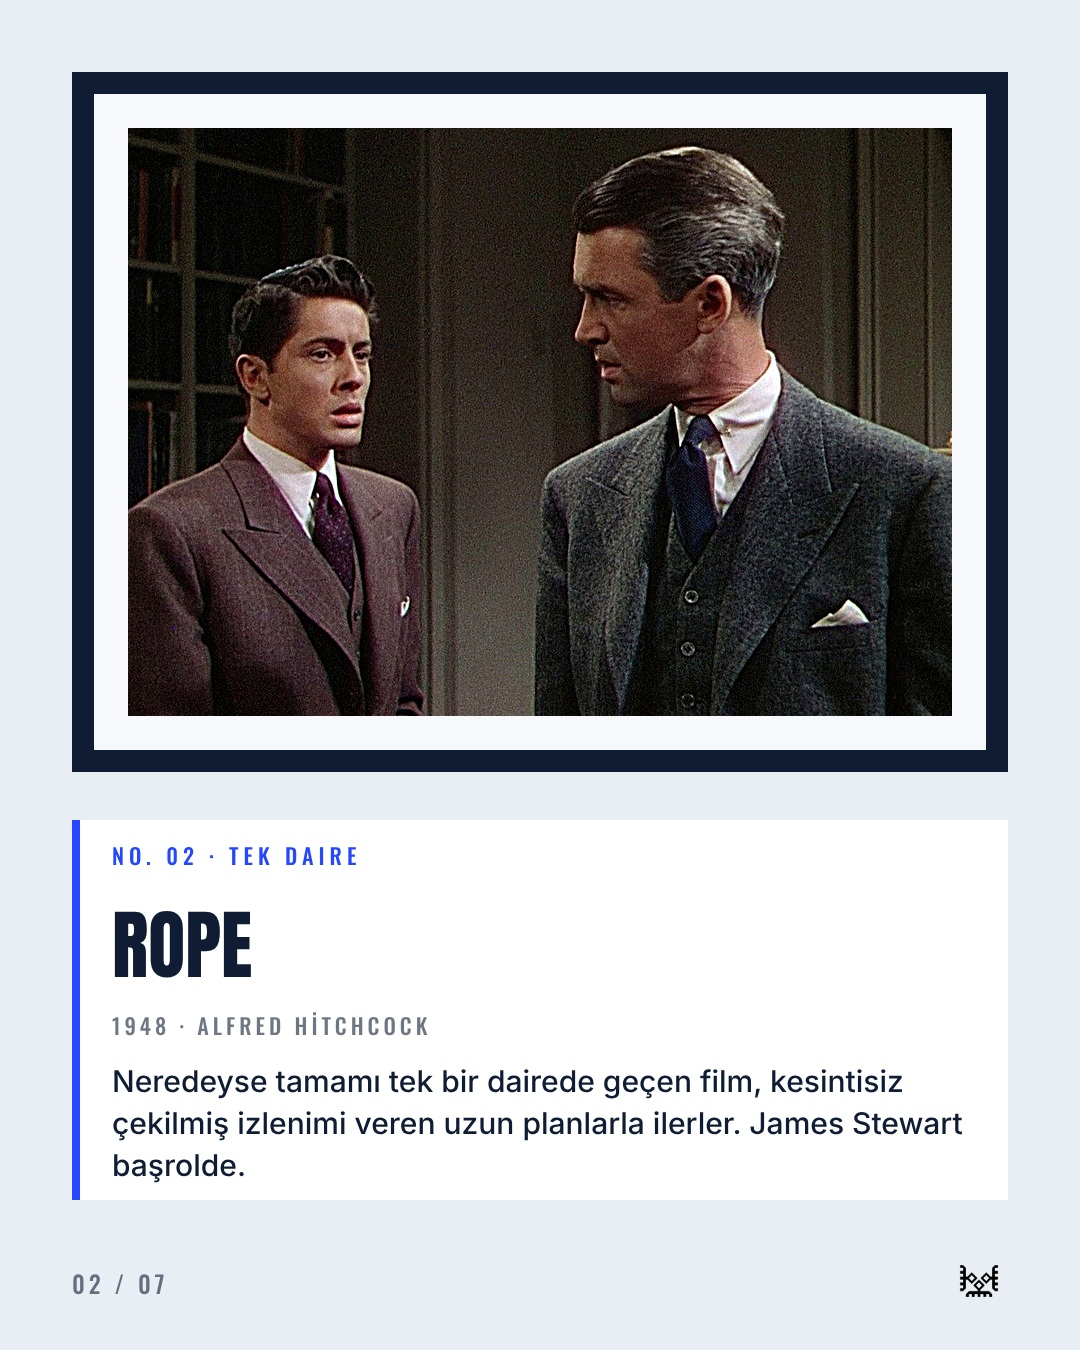
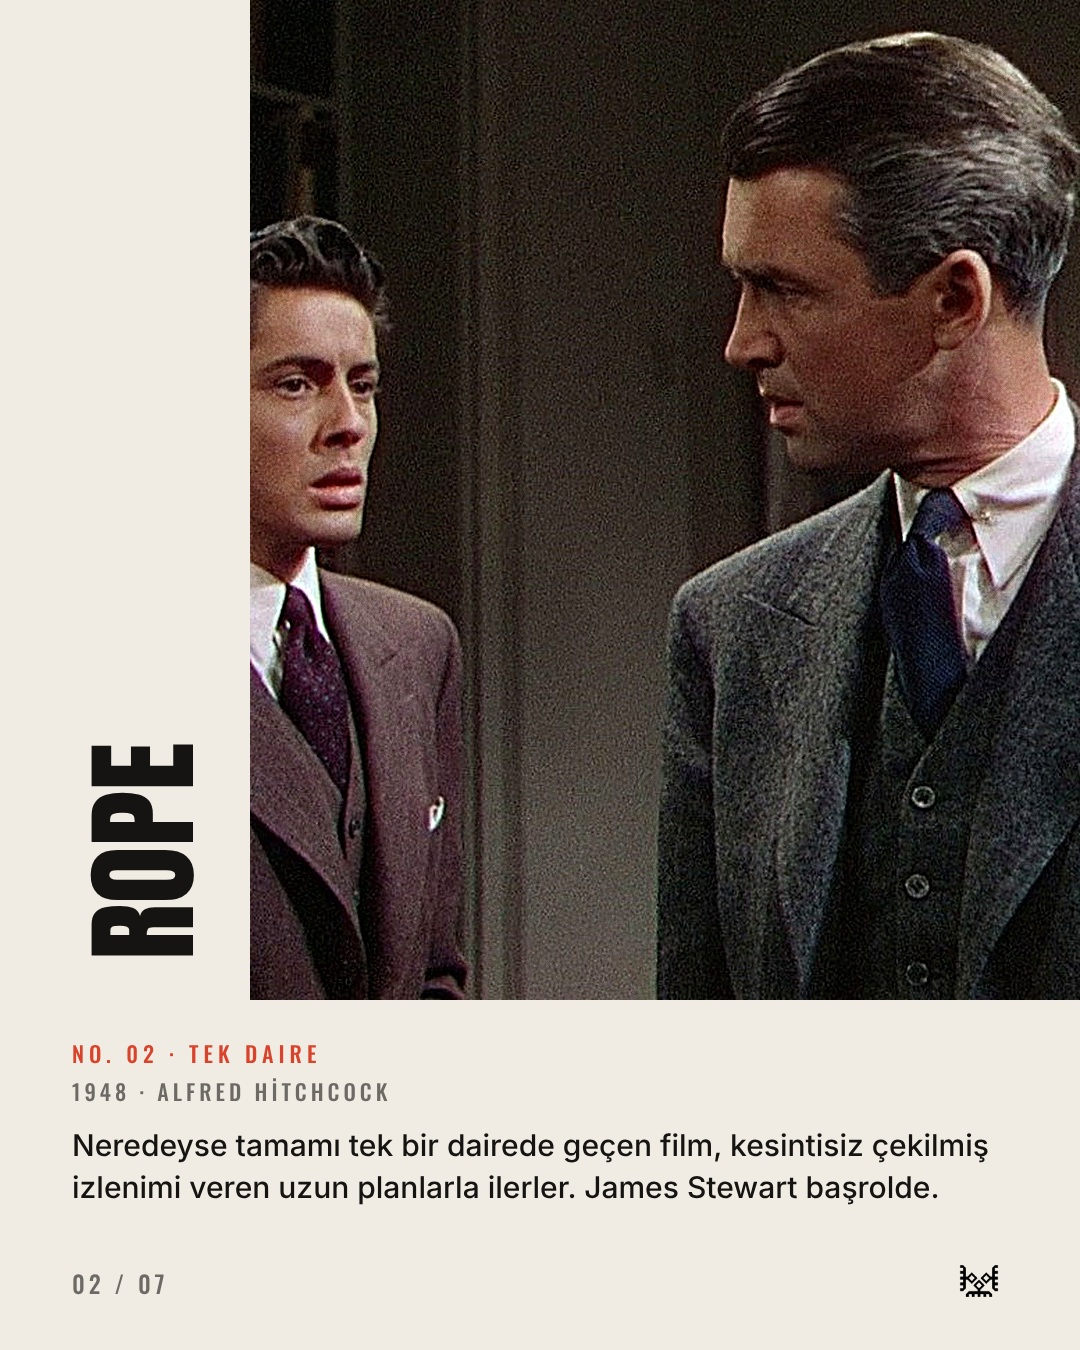
Gönderi tasarımları yenilendi; Türk komedileri yerine 2026'nın en yüksek puanlı 5 filmi
Claude-Session: https://claude.ai/code/session_013RjhQCyUYfSSutarfaCBa7

diff --git a/tools/week2/p06.py b/tools/week2/p06.py
@@ -1,69 +1,74 @@
 from pro import *
 
-ID = "2026-11-02_liste_turk-komedileri"
-RED, TEL, GLD = "#a8321f", "#1f5c57", "#e0a526"
-TH = theme("#f1e3c4", "#2a1a10", "#a8321f", on_acc="#f1e3c4", head="abril", upper=False, acc_logo="white")
+ID = "2026-11-02_liste_2026-en-yuksek-puanli-5-film"
+TEAL, CRM, INK = "#0e7c7b", "#f2efe6", "#141a1a"
+TH = theme(CRM, INK, TEAL, on_acc="#fff", head="anton")
 
-CAPTION = """Yıllar geçse de her izlendiğinde yeniden güldüren 5 Türk komedisi. Kimi okul sıralarında, kimi köy meydanında, kimi bir turşu dükkânında geçiyor ama hepsinin repliği hâlâ dilimizde.
+CAPTION = """2026'nın şimdiye kadar en yüksek puan alan 5 filmi. Eylül 2025'ten bu yana vizyona giren ve en az 1.500 oy almış filmler arasında TMDB izleyici puanına göre en tepedekiler hepsi bu yılın yapımı çıktı.
 
-Hababam Sınıfı (1975) Özel Çamlıca Lisesi'nin haylaz sınıfını, Tosun Paşa (1976) iki aile arasında Tosun Paşa kılığına sokulan uşak Şaban'ı, Zübük (1980) Aziz Nesin'in fırsatçı karakterini, Çöpçüler Kralı (1977) mahallenin çöpçüsü Apti'yi, Neşeli Günler (1978) ise turşu yüzünden ayrılan bir aileyi anlatıyor.
+Yerime Geç 8,8 ile zirvede. Onu 8,6 ile Kurtuluş Projesi ve Michael, 8,5 ile Örümcek-Adam: Yepyeni Bir Gün, 8,3 ile Oyuncak Hikayesi 5 izliyor. Puanlar zamanla değişebilir.
 
-Sen hangisinin repliklerini ezbere biliyorsun?
+Sen hangisini izledin, puanı hak ediyor mu?
 
 Yarın 18:00'de: Çocukken izlediğin, büyüyünce başka vuran 5 animasyon."""
 
-
 FILMS = [
-    ("Hababam Sınıfı", "1975 · Ertem Eğilmez", "Münir Özkul, Tarık Akan, Kemal Sunal, Halit Akçatepe, Adile Naşit",
-     "Özel Çamlıca Lisesi'nin haylaz öğrencilerle dolu ünlü sınıfı. Kopya, kaçamak ve unutulmaz karakterler.", S("hababam", 1), None, "okul sıraları", RED),
-    ("Tosun Paşa", "1976 · Kartal Tibet", "Kemal Sunal, Şener Şen, Müjde Ar, Adile Naşit",
-     "İki aile arasındaki Yeşil Vadi kavgasında uşak Şaban, Tosun Paşa kılığına sokulur. İşler karışır.", S("tosunpasa", 3), S("tosunpasa", 2), "fesli kahraman", TEL),
-    ("Zübük", "1980 · Kartal Tibet", "Kemal Sunal, Nevra Serezli, Metin Serezli",
-     "Aziz Nesin'in aynı adlı kitabından uyarlandı: her ortamda yolunu bulan fırsatçı Zübük'ün hikâyesi.", S("zubuk", 1), S("zubuk", 2), "fırsatçı", GLD),
-    ("Çöpçüler Kralı", "1977 · Zeki Ökten", "Kemal Sunal, Şener Şen, Ayşen Gruda",
-     "Mahallenin çöpçüsü Apti ile esnafa baskı yapan zabıta memurunun hikâyesi.", S("copculer", 3), S("copculer", 1), "mahalle", RED),
-    ("Neşeli Günler", "1978 · Orhan Aksoy", "Münir Özkul, Adile Naşit, Şener Şen",
-     "Turşu yüzünden ayrılan anne babanın çocukları üçer üçer paylaşılır; yıllar sonra tesadüfen karşılaşırlar.", S("neseligunler", 2), S("neseligunler", 1), "turşu kavgası", TEL),
+    ("YERİME GEÇ", "8.8", "1 Mayıs 2026 · Nathan Greno", "Michael B. Jordan, Juno Temple, Tracy Morgan",
+     "Ormanda yaşayan küçük bir canlıyla görkemli bir kuşun bedenleri aniden yer değiştirir; hayatta kalmak için birlik olmaları gerekir.", S("swapped", 3), S("swapped", 1), "Swapped"),
+    ("KURTULUŞ PROJESİ", "8.6", "20 Mart 2026 · Phil Lord, Christopher Miller", "Ryan Gosling, Sandra Hüller, James Ortiz",
+     "Fen bilgisi öğretmeni Ryland Grace, ışık yılları uzakta bir uzay gemisinde hafızasını kaybetmiş halde uyanır ve Güneş'in sönmesinin sırrını çözmeye çalışır.", S("hailmary", 4), S("hailmary", 3), "Project Hail Mary"),
+    ("MICHAEL", "8.6", "24 Nisan 2026 · Antoine Fuqua", "Jaafar Jackson, Colman Domingo, Nia Long",
+     "Michael Jackson'ı gerçek hayattaki yeğeni Jaafar Jackson canlandırıyor; film en ikonik performansları da içeriyor.", S("michael", 4), S("michael", 1), "Biyografi"),
+    ("ÖRÜMCEK-ADAM: YEPYENİ BİR GÜN", "8.5", "31 Temmuz 2026 · Destin Daniel Cretton", "Tom Holland, Sadie Sink, Zendaya",
+     "Artık kimsenin hatırlamadığı Peter Parker, şehre yönelen yeni bir tehdidi durdurmaya çalışır.", S("spiderman", 2), S("spiderman", 1), "Spider-Man: Brand New Day"),
+    ("OYUNCAK HİKAYESİ 5", "8.3", "19 Haziran 2026 · Andrew Stanton", "Tom Hanks, Tim Allen, Joan Cusack",
+     "Bonnie'nin bir tablete takıntılı hale gelmesiyle Buzz, Woody ve Jessie için işler iyice karışır.", S("toystory5", 3), S("toystory5", 1), "Toy Story 5"),
 ]
 
 
+def cover():
+    els = [
+        *kicker(TH, "TMDB izleyici puanı", M, 70),
+        T("2026'NIN EN<br>YÜKSEK PUANLI<br>5 FİLMİ", M, 130, W - 2 * M, 400, 130, "anton", INK, nowrap=True, mn=64, lh=1.07),
+    ]
+    y = 590
+    track_x, track_w = M + 120, 560
+    for k, f in enumerate(FILMS):
+        sc = float(f[1])
+        els += [
+            img(grade(f[6], (96, 96)), M, y, 96, 96, z=2),
+            T(f[0], track_x, y - 4, W - track_x - M - 150, 44, 30, "oswald", INK, weight=500, ls=2, nowrap=True, mn=16, upper=True),
+            box(track_x, y + 60, track_w, 14, "rgba(20,26,26,.10)", z=2),
+            box(track_x, y + 60, int(track_w * sc / 10), 14, TEAL, z=3),
+            T(f[1].replace(".", ","), W - M - 150, y + 6, 150, 70, 64, "anton", TEAL, fit=False, align="right", lh=1.0, nowrap=True, bleed=True),
+        ]
+        y += 116
+    els += [T("Eylül 2025'ten bu yana vizyona girenler arasında, en az 1.500 oy.", M, 1224, W - 2 * M - 70, 30, 22, "inter", INK, weight=500, nowrap=True, mn=14, op=0.6),
+            logo("black", W - M - 58, 1252, 58, z=9)]
+    return {"bg": CRM, "els": els}
 
 
-
-HOLE = "repeating-linear-gradient(90deg,#f1e3c4 0 22px,transparent 22px 50px)"
-
-
-def strip(x, y, w, h):
-    return [box(x, y, w, h, "#1c1713", z=2),
-            box(x + 18, y + 12, w - 36, 22, "transparent", z=3, css=f"background:{HOLE}"),
-            box(x + 18, y + h - 34, w - 36, 22, "transparent", z=3, css=f"background:{HOLE}")]
-
-
-def strip_film(i, n):
-    title, meta, cast, body, src, _, tag, _c = FILMS[i]
-    return {"bg": TH["bg"], "els": [
-        *strip(40, 48, 1000, 700),
-        img(grade(src, (924, 600), contrast=1.05, sat=0.95), 78, 98, 924, 600, z=4),
-        T(f"{i+1}", 78, 98, 90, 90, 56, "abril", "#f1e3c4", fit=False, align="center", flex="center", bleed=True, z=7, bg="#a8321f"),
-        T(title, M, 790, W - 2 * M, 100, 88, "abril", TH["ink"], nowrap=True, mn=44, lh=1.05),
-        T(meta, M, 905, W - 2 * M, 36, 26, "typewriter", TH["accent"], nowrap=True, mn=16, upper=True, ls=2),
-        T(body, M, 960, W - 2 * M, 190, 38, "inter", TH["ink"], weight=500, lh=1.38, mn=26),
-        T("Başrolde: " + cast, M, 1196, W - 2 * M, 30, 22, "oswald", TH["ink"], weight=500, ls=2, upper=True, nowrap=True, mn=14, op=0.6),
-        *footer(TH, i + 1, n),
+def score_film(i, n):
+    title, sc, meta, kadro, konu, src, _c, tag = FILMS[i]
+    ph = 700
+    ts = fit(title, 620, 92, 0.5, 40)
+    return {"bg": CRM, "els": [
+        img(grade(src, (1080, ph)), 0, 0, W, ph, z=1),
+        label(tag, M, 56),
+        box(W - M - 236, ph - 118, 236, 236, "#fff", z=4, radius=400, border=f"12px solid {TEAL}"),
+        T(sc.replace(".", ","), W - M - 236, ph - 118, 236, 236, 92, "anton", TEAL, fit=False, align="center", flex="center", lh=1.0, bleed=True, z=5),
+        T("#" + str(i + 1), M, ph + 30, 300, 40, 28, "oswald", TEAL, fit=False, weight=500, ls=6, nowrap=True),
+        T(title, M, ph + 96, 640, 110, 90, "anton", INK, nowrap=True, mn=38, lh=1.05),
+        T(meta, M, ph + 214, 700, 34, 24, "oswald", INK, weight=500, ls=3, upper=True, nowrap=True, mn=15, op=0.6),
+        rule(M, ph + 262, W - 2 * M, INK),
+        T("Oyuncular: " + kadro, M, ph + 282, W - 2 * M, 40, 28, "inter", INK, weight=500, nowrap=True, mn=18, op=0.85),
+        T(konu, M, ph + 336, W - 2 * M, 150, 34, "inter", INK, weight=500, lh=1.4, mn=24),
+        *footer(TH, i + 2, n),
     ]}
 
 
 def build():
     n = 7
-    fr = [S("tosunpasa", 2), S("copculer", 1), S("neseligunler", 1), S("zubuk", 2)]
-    els = [
-        T("Yıllar geçse de", M, 80, 800, 50, 36, "typewriter", TH["ink"], nowrap=True, ls=2),
-        T("güldüren 5<br>Türk komedisi", M, 150, W - 2 * M, 400, 150, "abril", TH["accent"], nowrap=True, mn=70, lh=1.1),
-        *strip(40, 640, 1000, 520),
-    ]
-    for k, nm in enumerate(fr):
-        els.append(img(grade(nm, (218, 420), (0.2, 0, 0.8, 1), contrast=1.05, sat=0.95), 76 + k * 232, 700, 218, 420, z=4))
-    els += [T("Kaydet, birlikte gül.", M, 1214, 600, 40, 28, "inter", TH["ink"], weight=500, nowrap=True, op=0.8), logo("black", W - M - 58, 1252, 58, z=9)]
-    slides = [{"bg": TH["bg"], "els": els}] + [strip_film(i, n) for i in range(5)]
-    slides.append(cta_slide(TH, "Hangisinin<br>repliklerini ezbere<br>biliyorsun?", "Aklında kalan repliği yorumlara yaz.", "Kaydet · Ailenle izle"))
+    slides = [cover()] + [score_film(i, n) for i in range(5)]
+    slides.append(cta_slide(TH, "SENCE PUANI<br>HAK EDİYOR MU?", "Hangisini izledin? Yorumlara kendi puanını yaz.", "Kaydet · İzleme listene ekle"))
     return {"id": ID, "caption": CAPTION, "slides": slides}

diff --git a/tools/week2/p01.py b/tools/week2/p01.py
@@ -2,7 +2,7 @@ from pro import *
 ORG, CRM, BLU, INK, YEL = "#ff5a1f", "#f4efe6", "#2447ff", "#14110f", "#ffd23f"
 
 ID = "2026-10-30_liste_basa-sardiran-5-film"
-TH = theme("#f4efe6", "#14110f", "#ff5a1f", on_acc="#fff", head="anton")
+TH = theme("#f1ece3", "#161412", "#c8321f", on_acc="#fff", head="anton")
 CAPTION = """Bitince "dur, şimdi başa saralım" dedirten 5 film. Hepsinin ortak noktası şu: ilk izlemede hikâyeyi anladığını sanıyorsun, ikinci izlemede her sahnede bir ipucu görüp "bunu nasıl kaçırdım" diyorsun.
 
 The Prestige (2006) birbirini alt etmeye çalışan iki sihirbazın takıntısını, Shutter Island (2010) bir adadaki akıl hastanesinden kaybolan hastanın izini, The Usual Suspects (1995) bir sorgu odasında anlatılan hikâyenin ne kadarının doğru olduğunu, Gone Girl (2014) evlilik yıldönümünde kaybolan bir kadının ardından başlayan şüpheyi, The Sixth Sense (1999) ise ölüleri gördüğünü söyleyen bir çocuğun hikâyesini anlatıyor.
@@ -22,36 +22,38 @@ FILMS = [
 
 
 
-SLIDE_TH = [  # bg, ink, mute-accent
-    (CRM, INK, ORG), (BLU, "#fff", YEL), (ORG, INK, CRM), (YEL, INK, BLU), (CRM, INK, BLU),
-]
+
+def sub_label(text, y):
+    size = 28
+    w = int(len(text) * size * 0.62 + 56)
+    x = (W - w) // 2
+    return [box(x, y, w, 56, "rgba(0,0,0,.68)", z=6),
+            T(text, x, y, w, 56, size, "inter", "#fff", fit=False, weight=500, align="center", flex="center", nowrap=True, bleed=True, z=7)]
 
 
-def poster_film(i, n):
-    title, meta, body, src, _, _, tag, _ = FILMS[i]
-    bg, ink, acc = SLIDE_TH[i]
-    return {"bg": bg, "els": [
-        T(f"{i+1:02d}", M, 40, 420, 300, 280, "anton", ink, fit=False, lh=1.0, bleed=True, stroke=f"3px {ink}", fill_none=True, op=0.9),
-        T(tag, W - M - 440, 72, 440, 40, 24, "oswald", ink, fit=False, weight=500, ls=5, upper=True, align="right", nowrap=True, op=0.75),
-        T(title, M, 330, W - 2 * M, 110, 104, "anton", ink, nowrap=True, mn=48, lh=1.05),
-        T(meta, M, 448, W - 2 * M, 36, 26, "oswald", ink, weight=500, ls=4, upper=True, nowrap=True, mn=18, op=0.75),
-        img(grade(src, (1080, 470), contrast=1.08, sat=1.12), 0, 510, W, 470, z=2),
-        T(body, M, 1010, W - 2 * M, 200, 42, "inter", ink, weight=500, lh=1.38, mn=28),
-        T(f"{i+1:02d} / {n:02d}", M, 1268, 260, 34, 24, "oswald", ink, fit=False, weight=500, ls=4, op=0.6),
-        logo("white" if bg in (BLU,) else "black", W - M - 58, 1252, 58, z=9),
+def lb_film(i, n):
+    title, meta, body, src, _, _, tag, _x = FILMS[i]
+    return {"bg": TH["bg"], "els": [
+        T(f"{i+1:02d}", M, 84, 200, 36, 28, "oswald", TH["accent"], fit=False, weight=500, ls=6, bleed=False),
+        T(title, M, 140, W - 2 * M, 110, 100, "anton", TH["ink"], nowrap=True, mn=48, lh=1.05),
+        T(meta, M, 268, W - 2 * M, 36, 26, "oswald", TH["ink"], weight=500, ls=4, upper=True, nowrap=True, mn=18, op=0.6),
+        img(grade(src, (1080, 608), contrast=1.05, sat=1.05), 0, 350, W, 608, z=2),
+        *sub_label("— " + tag + ("" if tag[-1] in "?!." else "."), 958 - 100),
+        T(body, M, 1010, W - 2 * M, 210, 40, "inter", TH["ink"], weight=500, lh=1.4, mn=28),
+        *footer(TH, i + 1, n),
     ]}
 
 
 def build():
     n = 7
-    cover = {"bg": ORG, "els": [
-        T("BİTİNCE<br>BAŞA<br>SARDIRAN", M, 96, W - 2 * M, 610, 240, "anton", CRM, nowrap=True, mn=80, lh=1.03),
-        img(grade(S("sixthsense", 2), (1080, 420), contrast=1.08), 0, 740, W, 420, z=2),
-        box(M, 1090, 360, 80, INK, z=4),
-        T("5 FİLM · SPOİLER YOK", M, 1090, 360, 80, 26, "oswald", CRM, fit=False, weight=500, ls=4, align="center", flex="center", nowrap=True, bleed=True, z=5),
-        T("Kaydet, sırayla izle.", M, 1214, 600, 40, 28, "inter", INK, weight=500, nowrap=True, op=0.8),
-        logo("black", W - M - 58, 1252, 58, z=9),
+    cover = {"bg": TH["bg"], "els": [
+        *kicker(TH, "Liste · 5 film", M, 80),
+        T("BİTİNCE<br>BAŞA SARDIRAN", M, 150, W - 2 * M, 330, 170, "anton", TH["ink"], nowrap=True, mn=70, lh=1.08),
+        img(grade(S("prestige", 3), (1080, 608), contrast=1.05), 0, 520, W, 608, z=2),
+        *sub_label("— Spoiler yok.", 1028 - 100),
+        T("Kaydet, sırayla izle.", M, 1170, 700, 40, 28, "inter", TH["ink"], weight=500, nowrap=True, op=0.75),
+        logo(TH["logo"], W - M - 58, 1252, 58, z=9),
     ]}
-    slides = [cover] + [poster_film(i, n) for i in range(5)]
+    slides = [cover] + [lb_film(i, n) for i in range(5)]
     slides.append(cta_slide(TH, "SONU SENİ<br>ŞAŞIRTAN FİLM<br>HANGİSİ?", "Yorumlara yaz, ama sonunu anlatma.", "Kaydet · Sırayla izle"))
     return {"id": ID, "caption": CAPTION, "slides": slides}

diff --git a/tools/week2/p10.py b/tools/week2/p10.py
@@ -1,7 +1,7 @@
 from pro import *
 
 ID = "2026-11-05_liste_tek-mekanda-gecen-5-film"
-TH = theme("#e9eef5", "#0f1c33", "#2447ff", on_acc="#fff", head="anton")
+TH = theme("#f1ece3", "#161412", "#d9432b", on_acc="#fff", head="anton")
 
 CAPTION = """Büyük bütçe yok, devasa dekor yok. Tek bir oda, tek bir araç, tek bir mekân var; ama sonuna kadar nefes alamıyorsun. Tek mekânda geçen 5 film.
 
@@ -21,24 +21,19 @@ FILMS = [
 
 
 
-DK = "#0f1c33"
+
+def vtitle(text, size=110):
+    return T(text, 84, 960, 880, 140, size, "anton", TH["ink"], fit=False, nowrap=True, lh=1.0, rot=-90, origin="0 0", bleed=True)
 
 
-def frame(x, y, w, h, src, crop=(0, 0, 1, 1), pad=22, mat=34):
-    return [box(x, y, w, h, DK, z=2), box(x + pad, y + pad, w - 2 * pad, h - 2 * pad, "#f6f8fb", z=3),
-            img(grade(src, (w - 2 * (pad + mat), h - 2 * (pad + mat)), crop), x + pad + mat, y + pad + mat, w - 2 * (pad + mat), h - 2 * (pad + mat), z=4)]
-
-
-def museum(i, n):
+def v_film(i, n):
     title, meta, body, src, _, tag = FILMS[i]
     return {"bg": TH["bg"], "els": [
-        *frame(M, 72, W - 2 * M, 700, src),
-        box(M, 820, W - 2 * M, 380, "#fff", z=2),
-        box(M, 820, 8, 380, TH["accent"], z=3),
-        T(f"NO. {i+1:02d} · {tag.upper()}", M + 40, 842, 700, 30, 22, "oswald", TH["accent"], fit=False, weight=500, ls=5, nowrap=True),
-        T(title, M + 40, 906, W - 2 * M - 80, 96, 84, "anton", TH["ink"], nowrap=True, mn=44, lh=1.05),
-        T(meta, M + 40, 1012, W - 2 * M - 80, 30, 22, "oswald", TH["ink"], weight=500, ls=4, upper=True, nowrap=True, mn=16, op=0.6),
-        T(body, M + 40, 1060, W - 2 * M - 80, 130, 32, "inter", TH["ink"], weight=500, lh=1.4, mn=22),
+        img(grade(src, (830, 1000), (0, 0, 1, 1)), 250, 0, 830, 1000, z=2),
+        vtitle(title, fit(title, 880, 118, 0.46, 60)),
+        T(f"NO. {i+1:02d} · {tag.upper()}", M, 1040, W - 2 * M, 30, 22, "oswald", TH["accent"], fit=False, weight=500, ls=5, nowrap=True),
+        T(meta, M, 1078, W - 2 * M, 30, 22, "oswald", TH["ink"], weight=500, ls=4, upper=True, nowrap=True, mn=16, op=0.6),
+        T(body, M, 1124, W - 2 * M, 120, 32, "inter", TH["ink"], weight=500, lh=1.4, mn=24),
         *footer(TH, i + 1, n),
     ]}
 
@@ -46,15 +41,13 @@ def museum(i, n):
 def build():
     n = 7
     cover = {"bg": TH["bg"], "els": [
-        T("TEK ODADA<br>GEÇEN 5 FİLM", M, 90, W - 2 * M, 280, 130, "anton", TH["ink"], nowrap=True, mn=60, lh=1.06),
-        box(M, 400, W - 2 * M, 760, DK, z=2),
-        box(M + 36, 436, W - 2 * M - 72, 688, "#f6f8fb", z=3),
-        box(M + 70, 470, W - 2 * M - 140, 620, DK, z=4),
-        box(M + 104, 504, W - 2 * M - 208, 552, "#f6f8fb", z=5),
-        img(grade(S("cube", 1), (W - 2 * M - 242, 484), (0.1, 0, 0.9, 1)), M + 138, 538, W - 2 * M - 242, 484, z=6),
-        T("Büyük bütçe yok, nefes almak da yok.", M, 1190, 800, 36, 26, "inter", TH["ink"], weight=500, nowrap=True, op=0.75),
-        logo("black", W - M - 58, 1252, 58, z=9),
+        img(grade(S("cube", 3), (830, 1000), (0, 0, 1, 1)), 250, 0, 830, 1000, z=2),
+        vtitle("TEK ODADA GEÇEN 5 FİLM", 84),
+        T("LİSTE · 5 FİLM", M, 1040, 600, 30, 22, "oswald", TH["accent"], fit=False, weight=500, ls=5, nowrap=True),
+        T("Büyük bütçe yok, nefes almak da yok.", M, 1086, W - 2 * M, 50, 36, "inter", TH["ink"], weight=500, nowrap=True, mn=22),
+        T("Kaydet, sırayla izle.", M, 1146, 600, 36, 26, "inter", TH["ink"], weight=500, nowrap=True, op=0.6),
+        logo(TH["logo"], W - M - 58, 1252, 58, z=9),
     ]}
-    slides = [cover] + [museum(i, n) for i in range(5)]
+    slides = [cover] + [v_film(i, n) for i in range(5)]
     slides.append(cta_slide(TH, "HANGİ TEK<br>MEKÂN FİLMİNİ<br>EKLERDİN?", "Yorumlara yaz, listeyi birlikte büyütelim.", "Kaydet · Yeni hafta yarın başlıyor"))
     return {"id": ID, "caption": CAPTION, "slides": slides}

diff --git a/tools/week2/p03.py b/tools/week2/p03.py
@@ -1,7 +1,8 @@
 from pro import *
 
 ID = "2026-10-31_liste_cadilar-bayrami-5-film"
-TH = theme("#2d1470", "#fff4e0", "#ff8a1f", on_acc="#1a1030", head="anton", logo_light="white")
+TH = theme("#fdf1e3", "#2b2118", "#e8761b", on_acc="#2b2118", head="anton", accent_txt="#b4540a")
+BGS = ["#fdf1e3", "#e3eddc", "#fbe6b4", "#fde0d0", "#e3eddc"]
 
 CAPTION = """Cadılar Bayramı gecesi için korkutmadan eğlendiren 5 film. Kan yok, gerilim yok; sadece sevimli hayaletler, komik cadılar ve tuhaf dünyalar var.
 
@@ -26,11 +27,11 @@ ARC = lambda w: f"{w // 2}px {w // 2}px 0 0"
 
 def arch_film(i, n):
     title, meta, body, src, _, tag = FILMS[i]
-    return {"bg": TH["bg"], "els": [
+    return {"bg": BGS[i], "els": [
         img(grade(src, (680, 780), (0.15, 0, 0.85, 1)), 200, 72, 680, 780, z=2, radius=ARC(680)),
-        label(tag, 200 + 340 - 80, 60, bg=TH["accent"], color="#1a1030", size=22, z=6),
+        label(tag, 200 + 340 - 70, 60, bg=TH["accent"], color="#2b2118", size=22, z=6),
         T(title, M, 890, W - 2 * M, 100, 92, "anton", TH["ink"], nowrap=True, mn=44, lh=1.05, align="center"),
-        T(meta, M, 1000, W - 2 * M, 36, 26, "oswald", TH["accent"], weight=500, ls=4, upper=True, nowrap=True, mn=18, align="center"),
+        T(meta, M, 1000, W - 2 * M, 36, 26, "oswald", TH["accent_txt"], weight=500, ls=4, upper=True, nowrap=True, mn=18, align="center"),
         T(body, 150, 1054, W - 300, 170, 36, "inter", TH["ink"], weight=500, lh=1.38, mn=26, align="center"),
         *footer(TH, i + 1, n),
     ]}
@@ -39,8 +40,8 @@ def arch_film(i, n):
 def build():
     n = 7
     els = [
-        T("KORKUTMADAN<br>EĞLENDİREN<br>5 FİLM", M, 70, W - 2 * M, 470, 190, "anton", "#2d1470", nowrap=True, mn=70, lh=1.07),
-        T("CADILAR BAYRAMI GECESİ", M, 580, 700, 34, 26, "oswald", "#2d1470", fit=False, weight=500, ls=6, upper=True, nowrap=True),
+        T("KORKUTMADAN<br>EĞLENDİREN<br>5 FİLM", M, 70, W - 2 * M, 470, 190, "anton", TH["ink"], nowrap=True, mn=70, lh=1.07),
+        T("CADILAR BAYRAMI GECESİ", M, 580, 700, 34, 26, "oswald", TH["accent_txt"], fit=False, weight=500, ls=6, upper=True, nowrap=True),
     ]
     heights = [520, 440, 520, 440, 520]
     for k, f in enumerate(FILMS):
@@ -48,9 +49,9 @@ def build():
         x = M + k * (w + 15)
         h = heights[k]
         els.append(img(grade(f[4], (w, h), (0.25, 0, 0.75, 1)), x, 1180 - h, w, h, z=2, radius=ARC(w)))
-    els.append(T("Kan yok, gerilim yok. Kaydet, bu gece aç.", M, 1214, 800, 40, 26, "inter", "#2d1470", weight=500, nowrap=True, op=0.85))
+    els.append(T("Kan yok, gerilim yok. Kaydet, bu gece aç.", M, 1214, 800, 40, 26, "inter", TH["ink"], weight=500, nowrap=True, op=0.8))
     els.append(logo("black", W - M - 58, 1252, 58, z=9))
-    cover = {"bg": "#ff8a1f", "els": els}
+    cover = {"bg": "#fbe6b4", "els": els}
     slides = [cover] + [arch_film(i, n) for i in range(5)]
     slides.append(cta_slide(TH, "BU GECE<br>HANGİSİNİ<br>AÇIYORSUN?", "Yorumlara yaz, ışıkları kıs.", "Kaydet · Aileyle izle"))
     return {"id": ID, "caption": CAPTION, "slides": slides}

diff --git a/tools/week2/p05.py b/tools/week2/p05.py
@@ -10,7 +10,7 @@ CAPTION = """Kasım'da sinemada ne var? Takvimi tek gönderide topladık.
 
 Sen ilk hangisine gideceksin?
 
-Bugün 18:00'de: Yıllar geçse de güldüren 5 Türk komedisi."""
+Bugün 18:00'de: 2026'nın en yüksek puanlı 5 filmi."""
 
 
 FILMS = [
